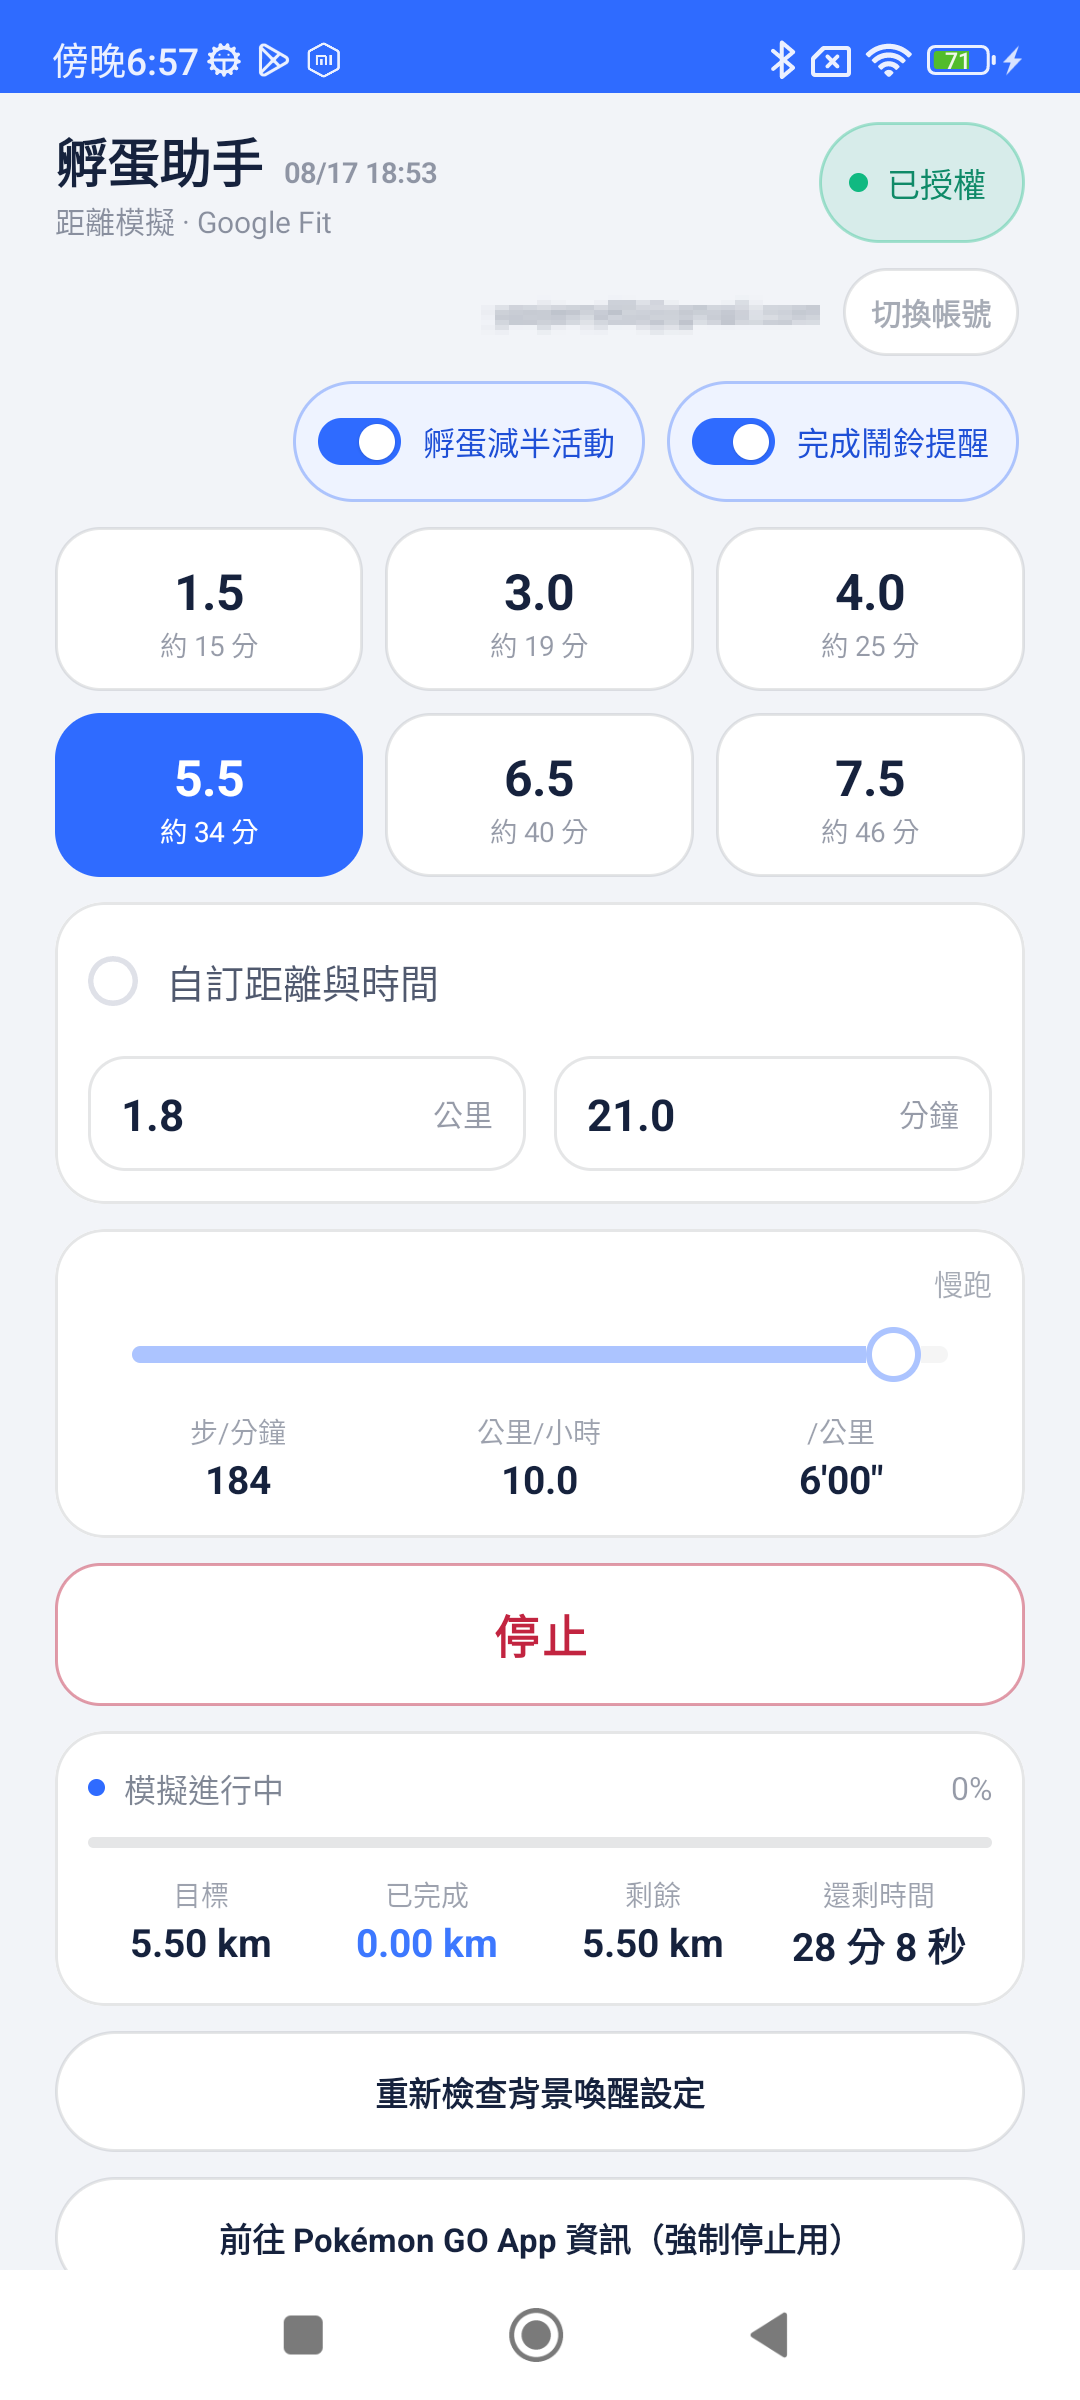
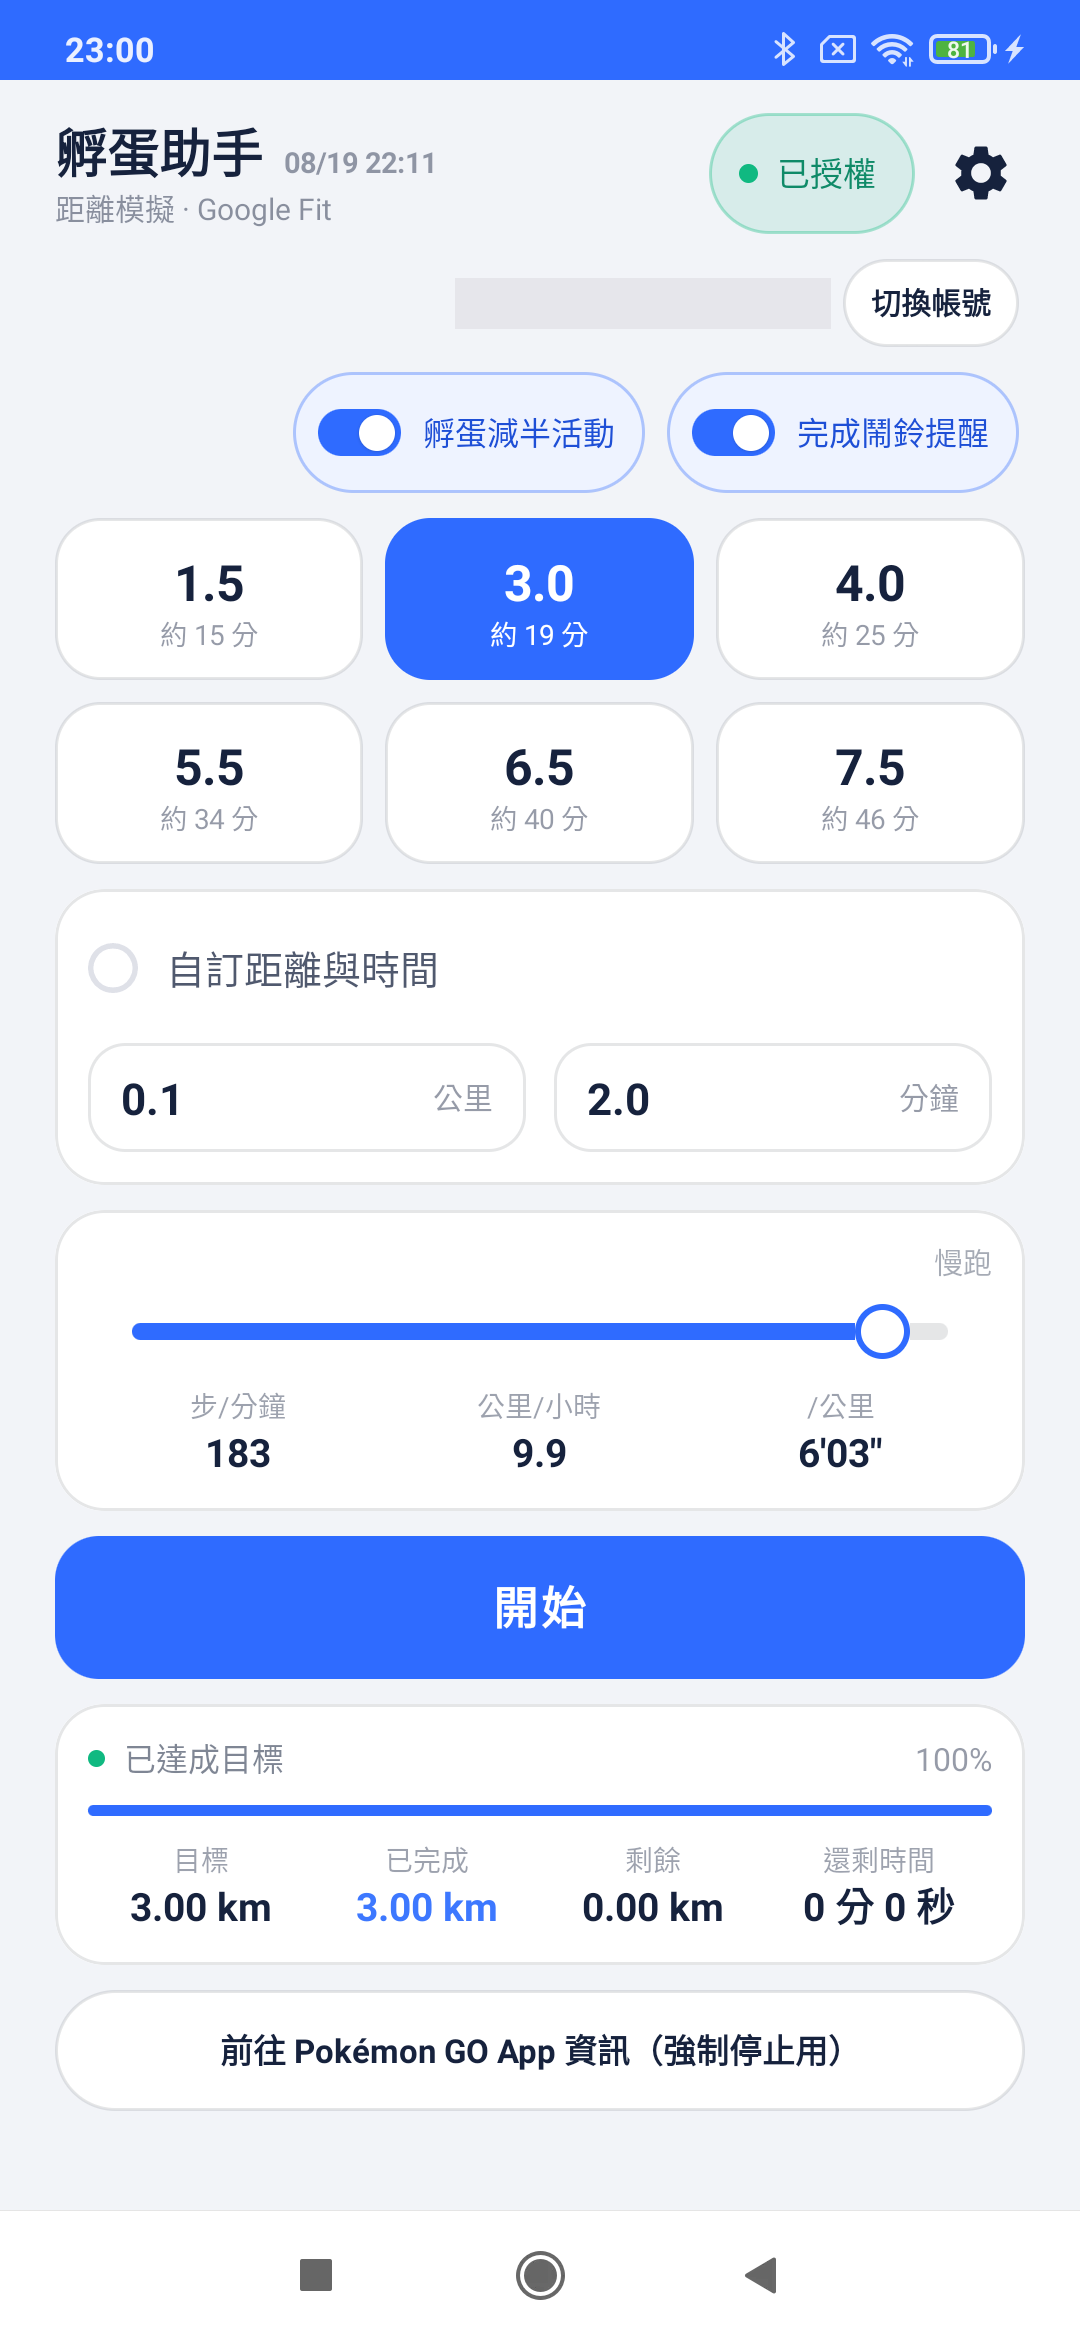
更新下載連結至 v0.2.6-beta，新增設定頁說明與截圖
Health Connect 改為設定裡的開關（預設關閉，只讀 Google Fit 才是正式路徑），
新增暱稱／自訂鈴聲／強制震動／背景寫入紀錄診斷區，README 補上對應的操作
說明與設定頁實機截圖。

Claude-Session: https://claude.ai/code/session_012ojUfbyVtX8Z1uMcxaBZrp

diff --git a/README.md b/README.md
@@ -20,9 +20,9 @@
 
 ## 畫面長這樣
 
-<img src="screens/main-screen.png" alt="孵蛋助手主畫面截圖" width="360">
+<img src="screens/main-screen.png" alt="孵蛋助手主畫面截圖" width="360"> <img src="screens/settings-screen.png" alt="孵蛋助手設定畫面截圖" width="360">
 
-（帳號那一列打了馬賽克，其餘都是實際畫面）
+（帳號、暱稱等個人資訊已打馬賽克，其餘都是實際畫面）
 
 ---
 
@@ -40,7 +40,7 @@ App 內的 Google 帳號登入功能目前設定為「測試中」狀態，**沒
 
 ### 方法一：GitHub 手動下載
 
-👉 [下載 hatch-assistant-v0.2.4-beta.apk](https://github.com/Jerry2-Yao/hatch-assistant-beta/releases/download/v0.2.4-beta/hatch-assistant-v0.2.4-beta.apk)
+👉 [下載 hatch-assistant-v0.2.6-beta.apk](https://github.com/Jerry2-Yao/hatch-assistant-beta/releases/download/v0.2.6-beta/hatch-assistant-v0.2.6-beta.apk)
 
 > 如果你是自己跑去 [Releases 頁面](https://github.com/Jerry2-Yao/hatch-assistant-beta/releases) 找檔案：請點檔名是 `.apk` 的那個，**不要點「Source code (zip)」或「(tar.gz)」**──那兩個是 GitHub 自動附加的原始碼壓縮檔，不是安裝檔，裝不起來。
 
@@ -96,6 +96,14 @@ App 內的 Google 帳號登入功能目前設定為「測試中」狀態，**沒
 - **進度卡**：顯示目前狀態、進度百分比、目標／已完成／剩餘／還剩時間。
 - **最下方「前往 Pokémon GO App 資訊」按鈕**：手動輔助功能，用來快速跳去 Pokémon GO 的系統設定頁強制停止它（第三方 App 沒有權限自動幫你做這件事）。這區未來會重新設計，先求能用。
 
+### 設定頁（點主畫面右上角齒輪圖示）
+
+- **暱稱**：完成鬧鈴通知會帶上這個暱稱，方便你用小米「應用分身」等雙開功能同時跑兩個帳號時，一看通知就知道是哪個帳號完成的。
+- **完成鬧鈴音效**：可以自訂完成時要放哪首鈴聲，不設定就用系統預設鬧鈴。
+- **強制使用震動**：開啟後，就算手機是正常響鈴狀態，完成時也一律只震動不出聲。
+- **同時寫入 Health Connect（實驗性）**：預設關閉。Pokémon GO 目前只讀 Google Fit，不需要打開；小米雙開分身不支援 Health Connect，打開也不會生效，保留這個開關只是為了未來 Google Fit API 若停用時能切換過去。
+- **背景寫入紀錄**：顯示下次背景喚醒的預定時間，以及最近 20 筆寫入結果。回報「無法寫入」問題時，麻煩附上這一段的截圖，能大幅加快排查速度。
+
 ---
 
 ## 五、已知限制
@@ -112,5 +120,6 @@ App 內的 Google 帳號登入功能目前設定為「測試中」狀態，**沒
 - 手機廠牌/型號
 - 大概發生的操作步驟
 - 截圖或錄影（如果方便的話）
+- 如果是「進度卡在那裡、無法寫入」這類問題，麻煩額外附上**設定頁「背景寫入紀錄」**那一段的截圖
 
 謝謝你協助測試！
